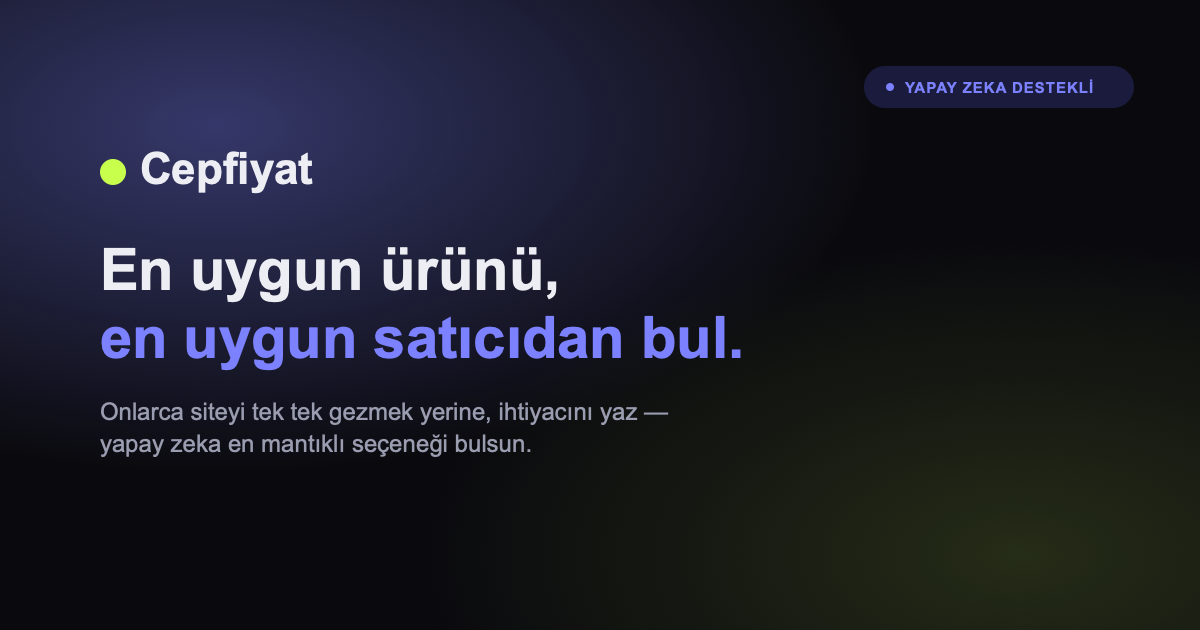
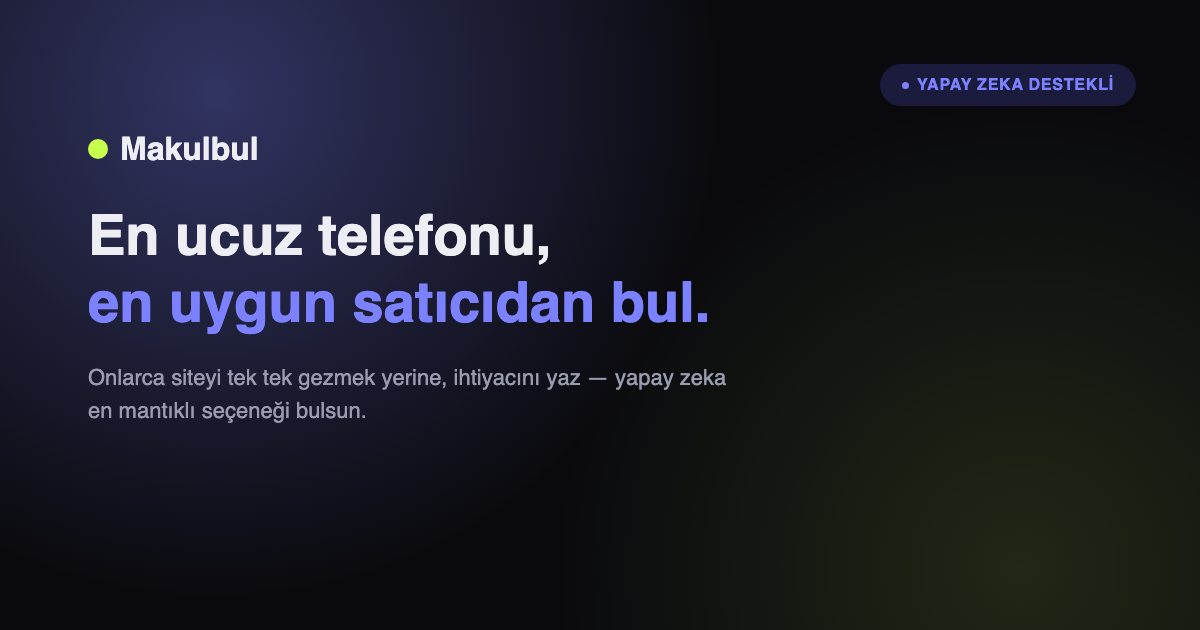
Kalan "cepfiyat" (küçük harf) referanslarını düzelt, OG görselini yeniden oluştur
- Önceki marka değişikliği sed'i büyük/küçük harf duyarlıydı — e-posta
  adresi ve test script'i içindeki küçük harfli "cepfiyat" kısımlarını
  kaçırmıştı
- og-image.png'nin İÇİNDE "Cepfiyat" yazısı gömülüydü (metin değil,
  görsel piksel) — aynı tasarım diliyle "Makulbul" yazan yeni bir
  1200x630 görsel oluşturuldu

Changed region(s): [[0.0617, 0.3317, 0.6167, 0.7238], [0.7092, 0.0905, 0.9558, 0.181], [0.0617, 0.2111, 0.2775, 0.3016]]

diff --git a/test-match.js b/test-match.js
@@ -50,7 +50,7 @@ async function main() {
         rawTitle: test.rawTitle,
         sellerId: sellerRows[0].id,
         price: test.price,
-        productUrl: 'https://example.com/cepfiyat-test-match-script',
+        productUrl: 'https://example.com/makulbul-test-match-script',
       });
 
       console.log(`Ham başlık : "${test.rawTitle}"`);
